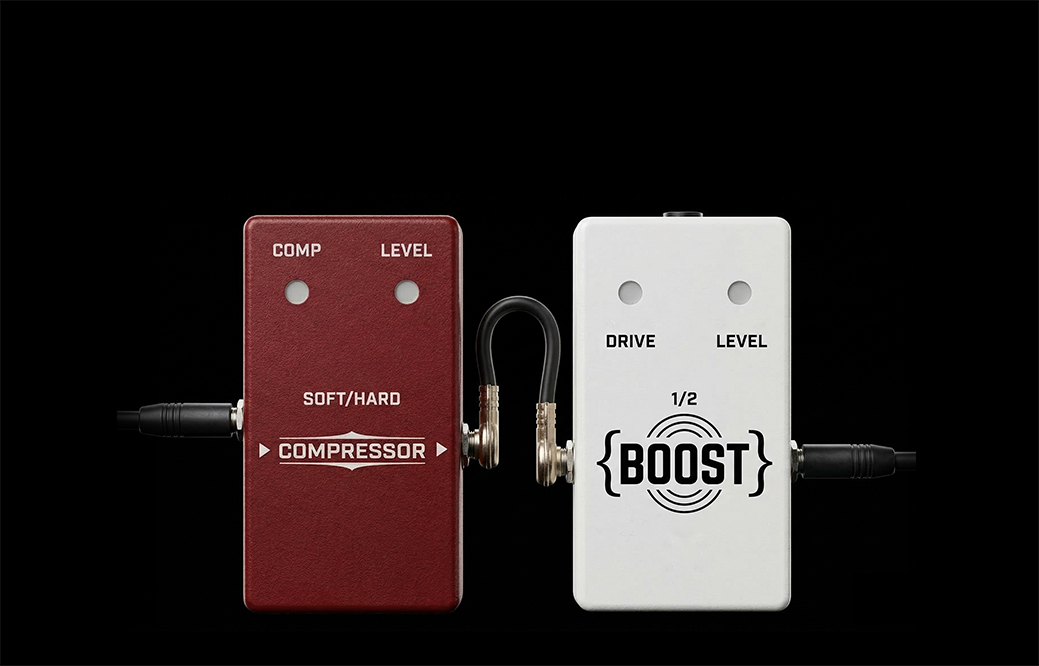
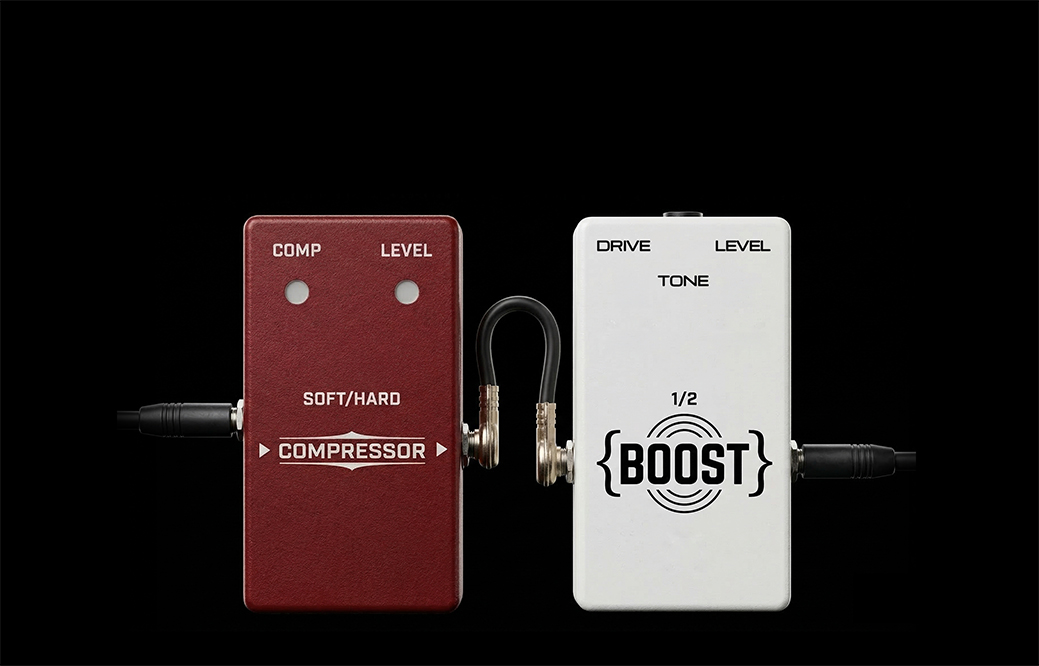
Polish boost pedal UI

diff --git a/NeuralAmpModeler/NeuralAmpModeler.cpp b/NeuralAmpModeler/NeuralAmpModeler.cpp
@@ -166,6 +166,16 @@ double MakeOnePoleLowPassCoeff(const double frequencyHz, const double sampleRate
   return 1.0 - std::exp(-2.0 * kPi * clampedFrequency / safeSampleRate);
 }
 
+double BoostDriveControlToDB(const double value)
+{
+  return (value - 5.0) * 2.0;
+}
+
+double BoostLevelControlToDB(const double value)
+{
+  return (value - 5.0) * 3.0;
+}
+
 #if NAM_DEV_DIAGNOSTICS
 uint64_t GetSteadyClockNowNs()
 {
@@ -1237,9 +1247,9 @@ NeuralAmpModeler::NeuralAmpModeler(const InstanceInfo& info)
   GetParam(kVirtualDoubleAmount)->InitDouble("Double", 65.0, 0.0, 100.0, 0.1, "");
   GetParam(kNoiseGateReleaseMs)->InitDouble("Gate Release", 40.0, 1.0, 100.0, 1.0, "");
   GetParam(kNoiseGateActive)->InitBool("NoiseGateActive", true);
-  GetParam(kStompBoostLevel)->InitGain("Boost Level", 0.0, -15.0, 15.0, 0.1);
+  GetParam(kStompBoostLevel)->InitDouble("Output Volume", 5.0, 0.0, 10.0, 0.1);
   GetParam(kStompBoostActive)->InitBool("BoostActive", false);
-  GetParam(kStompBoostDrive)->InitGain("Boost Drive", 0.0, -10.0, 10.0, 0.1);
+  GetParam(kStompBoostDrive)->InitDouble("Boost Drive", 5.0, 0.0, 10.0, 0.1);
   GetParam(kStompBoostTone)->InitDouble("Boost Character", 5.0, 0.0, 10.0, 0.1);
   GetParam(kStompBoostType)->InitBool("Boost Mode", false);
   GetParam(kStompBoostType)->SetDisplayText(0.0, "TS");
@@ -1652,18 +1662,27 @@ NeuralAmpModeler::NeuralAmpModeler(const InstanceInfo& info)
     const float stompBoostTypeX = designToUIX(2052.0f);
     const float stompBoostTypeY = designToUIY(1111.0f) + kStompButtonAnchorOffsetY;
     const float stompKnobY = designToUIY(890.0f) + kStompKnobAnchorOffsetY;
+    const float stompBoostDriveY = designToUIY(860.0f) + kStompKnobAnchorOffsetY;
+    const float stompBoostToneY = designToUIY(965.0f) + kStompKnobAnchorOffsetY;
+    const float stompBoostLevelY = designToUIY(860.0f) + kStompKnobAnchorOffsetY;
     const float stompBoostSwitchX = designToUIX(2049.0f);
     const float stompSwitchY = designToUIY(1673.0f) + kStompButtonAnchorOffsetY;
+    const float stompBoostSwitchY = designToUIY(1673.0f) + kStompButtonAnchorOffsetY;
     const auto stompCompressorAmountArea = makePedalKnobArea(stompCompressorAmountX, stompKnobY);
     const auto stompCompressorLevelArea = makePedalKnobArea(stompCompressorLevelX, stompKnobY);
-    const auto stompBoostDriveArea = makePedalKnobArea(stompBoostDriveX, stompKnobY);
-    const auto stompBoostToneArea = makePedalKnobArea(stompBoostToneX, stompKnobY);
-    const auto stompBoostLevelArea = makePedalKnobArea(stompBoostLevelX, stompKnobY);
+    const auto stompBoostDriveArea = makePedalKnobArea(stompBoostDriveX, stompBoostDriveY);
+    const auto stompBoostToneArea = makePedalKnobArea(stompBoostToneX, stompBoostToneY);
+    const auto stompBoostLevelArea = makePedalKnobArea(stompBoostLevelX, stompBoostLevelY);
     const float stompButtonScale = 0.6f;
     const float stompButtonW =
       stompButtonUpBitmap.IsValid() ? static_cast<float>(stompButtonUpBitmap.W()) * stompButtonScale : 46.0f;
     const float stompButtonH =
       stompButtonUpBitmap.IsValid() ? static_cast<float>(stompButtonUpBitmap.H()) * stompButtonScale : 30.0f;
+    const float stompBoostButtonScale = 0.6f;
+    const float stompBoostButtonW =
+      stompButtonUpBitmap.IsValid() ? static_cast<float>(stompButtonUpBitmap.W()) * stompBoostButtonScale : 46.0f;
+    const float stompBoostButtonH =
+      stompButtonUpBitmap.IsValid() ? static_cast<float>(stompButtonUpBitmap.H()) * stompBoostButtonScale : 30.0f;
     const auto stompCompressorToggleArea =
       IRECT(stompCompressorToggleX - 36.0f, stompCompressorToggleY - 40.0f, stompCompressorToggleX + 36.0f, stompCompressorToggleY + 10.0f);
     const auto stompCompressorSwitchArea =
@@ -1676,11 +1695,20 @@ NeuralAmpModeler::NeuralAmpModeler(const InstanceInfo& info)
             stompCompressorSwitchArea.T - 40.0f,
             stompCompressorSwitchArea.MW() + 10.0f,
             stompCompressorSwitchArea.T - 20.0f);
+    const float stompBoostTypeHalfWidthLeft = 30.0f;
+    const float stompBoostTypeHalfWidthRight = 30.0f;
+    const float stompBoostTypeHalfHeightTop = 22.0f;
+    const float stompBoostTypeHalfHeightBottom = 22.0f;
     const auto stompBoostTypeArea =
-      IRECT(stompBoostTypeX - 30.0f, stompBoostTypeY - 40.0f, stompBoostTypeX + 36.0f, stompBoostTypeY + 10.0f);
+      IRECT(stompBoostTypeX - stompBoostTypeHalfWidthLeft,
+            stompBoostTypeY - stompBoostTypeHalfHeightTop,
+            stompBoostTypeX + stompBoostTypeHalfWidthRight,
+            stompBoostTypeY + stompBoostTypeHalfHeightBottom);
     const auto stompBoostSwitchArea =
-      IRECT(stompBoostSwitchX - 0.5f * stompButtonW, stompSwitchY - 0.5f * stompButtonH, stompBoostSwitchX + 0.5f * stompButtonW,
-            stompSwitchY + 0.5f * stompButtonH);
+      IRECT(stompBoostSwitchX - 0.5f * stompBoostButtonW,
+            stompBoostSwitchY - 0.5f * stompBoostButtonH,
+            stompBoostSwitchX + 0.5f * stompBoostButtonW,
+            stompBoostSwitchY + 0.5f * stompBoostButtonH);
     const auto stompBoostOnLedArea = IRECT(stompBoostSwitchArea.MW() - 10.0f, stompBoostSwitchArea.T - 280.0f,
                                            stompBoostSwitchArea.MW() + 10.0f, stompBoostSwitchArea.T - 260.0f);
     // FX section coordinates come from the same 3x design canvas used by the stomp section.
@@ -2590,7 +2618,7 @@ NeuralAmpModeler::NeuralAmpModeler(const InstanceInfo& info)
       new NAMBitmapToggleControl(stompBoostTypeArea, kStompBoostType, horizonalSwitchLeftBitmap, horizonalSwitchRightBitmap),
       -1,
       "STOMP_CONTROLS")
-      ->SetTooltip("Boost mode: TS style / Precision Drive style.");
+      ->SetTooltip("Boost Type");
     pGraphics->AttachControl(new NAMBitmapLEDControl(stompBoostOnLedArea, redLedOnBitmap, redLedOffBitmap),
                              kCtrlTagBoostOnLED,
                              "STOMP_CONTROLS");
@@ -2709,18 +2737,19 @@ NeuralAmpModeler::NeuralAmpModeler(const InstanceInfo& info)
                               pedalKnobShadowBitmap, kPedalKnobScale, 8.0f, -5.0f),
       -1,
       "STOMP_CONTROLS")
-      ->SetTooltip("Boost drive.");
+      ->SetTooltip("Boost Drive");
     pGraphics->AttachControl(
       new NAMPedalKnobControl(stompBoostToneArea, kStompBoostTone, "", fxKnobNoLabelStyle, pedalKnobBitmap,
                               pedalKnobShadowBitmap, kPedalKnobScale, 8.0f, -5.0f),
       -1,
       "STOMP_CONTROLS")
-      ->SetTooltip("Boost character. TS mode controls tone; PD mode blends attack tightness and bright cut.");
+      ->SetTooltip("Boost Character");
     pGraphics->AttachControl(
       new NAMPedalKnobControl(stompBoostLevelArea, kStompBoostLevel, "", fxKnobNoLabelStyle, pedalKnobBitmap,
                               pedalKnobShadowBitmap, kPedalKnobScale, 8.0f, -5.0f),
       -1,
-      "STOMP_CONTROLS");
+      "STOMP_CONTROLS")
+      ->SetTooltip("Output Volume");
     pGraphics->AttachControl(new NAMEQFaderSliderControl(fxEqBand31Area, kFXEQBand31Hz, fxEqSliderStyle, eqFaderKnobBitmap),
                              -1,
                              "EQ_CONTROLS");
@@ -4265,7 +4294,7 @@ void NeuralAmpModeler::OnReset()
   const double boostDriveSmoothSampleRate = std::max(1.0, sampleRate);
   constexpr double kBoostDriveSmoothTimeSeconds = 0.02;
   mStompBoostDriveSmoothCoeff = std::exp(-1.0 / (boostDriveSmoothSampleRate * kBoostDriveSmoothTimeSeconds));
-  mStompBoostSmoothedDriveGain = DBToAmp(GetParam(kStompBoostDrive)->Value());
+  mStompBoostSmoothedDriveGain = DBToAmp(BoostDriveControlToDB(GetParam(kStompBoostDrive)->Value()));
   _ResetBuiltInCompressor(sampleRate);
   _ResetBuiltInTSBoost(sampleRate);
   _ResetBuiltInPrecisionBoost(sampleRate);
@@ -9086,10 +9115,12 @@ void NeuralAmpModeler::_ResetBuiltInTSBoost(const double sampleRate)
   mBuiltInTSBoost.brightToneLowPassCoeff = MakeOnePoleLowPassCoeff(14500.0, mBuiltInTSBoost.oversampledSampleRate);
   mBuiltInTSBoost.antiAliasLowPassCoeff =
     MakeOnePoleLowPassCoeff(std::min(16000.0, 0.42 * mBuiltInTSBoost.sampleRate), mBuiltInTSBoost.oversampledSampleRate);
-  mBuiltInTSBoost.smoothedDriveGain = DBToAmp(31.0 + GetParam(kStompBoostDrive)->Value());
-  mBuiltInTSBoost.smoothedDriveAmount = std::clamp((GetParam(kStompBoostDrive)->Value() + 10.0) * 0.05, 0.0, 1.0);
+  const double driveDB = BoostDriveControlToDB(GetParam(kStompBoostDrive)->Value());
+  const double levelDB = BoostLevelControlToDB(GetParam(kStompBoostLevel)->Value());
+  mBuiltInTSBoost.smoothedDriveGain = DBToAmp(31.0 + driveDB);
+  mBuiltInTSBoost.smoothedDriveAmount = std::clamp((driveDB + 10.0) * 0.05, 0.0, 1.0);
   mBuiltInTSBoost.smoothedTone = std::clamp(GetParam(kStompBoostTone)->Value() * 0.1, 0.0, 1.0);
-  mBuiltInTSBoost.smoothedLevelGain = DBToAmp(GetParam(kStompBoostLevel)->Value());
+  mBuiltInTSBoost.smoothedLevelGain = DBToAmp(levelDB);
   mBuiltInTSBoost.previousInput.fill(0.0);
   mBuiltInTSBoost.preHighPassLowState.fill(0.0);
   mBuiltInTSBoost.darkToneState.fill(0.0);
@@ -9163,10 +9194,12 @@ void NeuralAmpModeler::_ProcessBuiltInTSBoost(iplug::sample** inputs, iplug::sam
     return;
 
   const size_t channelsToProcess = std::min(numChannels, kNumChannelsInternal);
-  const double driveTargetGain = DBToAmp(31.0 + GetParam(kStompBoostDrive)->Value());
-  const double driveAmountTarget = std::clamp((GetParam(kStompBoostDrive)->Value() + 10.0) * 0.05, 0.0, 1.0);
+  const double driveDB = BoostDriveControlToDB(GetParam(kStompBoostDrive)->Value());
+  const double levelDB = BoostLevelControlToDB(GetParam(kStompBoostLevel)->Value());
+  const double driveTargetGain = DBToAmp(31.0 + driveDB);
+  const double driveAmountTarget = std::clamp((driveDB + 10.0) * 0.05, 0.0, 1.0);
   const double toneTarget = std::clamp(GetParam(kStompBoostTone)->Value() * 0.1, 0.0, 1.0);
-  const double levelTargetGain = DBToAmp(GetParam(kStompBoostLevel)->Value());
+  const double levelTargetGain = DBToAmp(levelDB);
   const double controlCoeff = mBuiltInTSBoost.controlSmoothCoeff;
 
   for (size_t s = 0; s < numFrames; ++s)
@@ -9221,11 +9254,13 @@ void NeuralAmpModeler::_ResetBuiltInPrecisionBoost(const double sampleRate)
   mBuiltInPrecisionBoost.antiAliasLowPassCoeff =
     MakeOnePoleLowPassCoeff(std::min(17000.0, 0.43 * mBuiltInPrecisionBoost.sampleRate),
                             mBuiltInPrecisionBoost.oversampledSampleRate);
-  const double precisionDriveAmount = std::clamp((GetParam(kStompBoostDrive)->Value() + 10.0) * 0.05, 0.0, 1.0);
+  const double driveDB = BoostDriveControlToDB(GetParam(kStompBoostDrive)->Value());
+  const double levelDB = BoostLevelControlToDB(GetParam(kStompBoostLevel)->Value());
+  const double precisionDriveAmount = std::clamp((driveDB + 10.0) * 0.05, 0.0, 1.0);
   mBuiltInPrecisionBoost.smoothedDriveGain =
     DBToAmp(7.0 + 20.0 * precisionDriveAmount + 4.0 * precisionDriveAmount * precisionDriveAmount);
   mBuiltInPrecisionBoost.smoothedCharacter = std::clamp(GetParam(kStompBoostTone)->Value() * 0.1, 0.0, 1.0);
-  mBuiltInPrecisionBoost.smoothedLevelGain = DBToAmp(GetParam(kStompBoostLevel)->Value());
+  mBuiltInPrecisionBoost.smoothedLevelGain = DBToAmp(levelDB);
   mBuiltInPrecisionBoost.previousInput.fill(0.0);
   mBuiltInPrecisionBoost.attackLowState.fill(0.0);
   mBuiltInPrecisionBoost.bodyState.fill(0.0);
@@ -9299,11 +9334,13 @@ void NeuralAmpModeler::_ProcessBuiltInPrecisionBoost(iplug::sample** inputs, ipl
     return;
 
   const size_t channelsToProcess = std::min(numChannels, kNumChannelsInternal);
-  const double precisionDriveAmount = std::clamp((GetParam(kStompBoostDrive)->Value() + 10.0) * 0.05, 0.0, 1.0);
+  const double driveDB = BoostDriveControlToDB(GetParam(kStompBoostDrive)->Value());
+  const double levelDB = BoostLevelControlToDB(GetParam(kStompBoostLevel)->Value());
+  const double precisionDriveAmount = std::clamp((driveDB + 10.0) * 0.05, 0.0, 1.0);
   const double driveTargetGain =
     DBToAmp(7.0 + 20.0 * precisionDriveAmount + 4.0 * precisionDriveAmount * precisionDriveAmount);
   const double characterTarget = std::clamp(GetParam(kStompBoostTone)->Value() * 0.1, 0.0, 1.0);
-  const double levelTargetGain = DBToAmp(GetParam(kStompBoostLevel)->Value());
+  const double levelTargetGain = DBToAmp(levelDB);
   const double controlCoeff = mBuiltInPrecisionBoost.controlSmoothCoeff;
 
   for (size_t s = 0; s < numFrames; ++s)